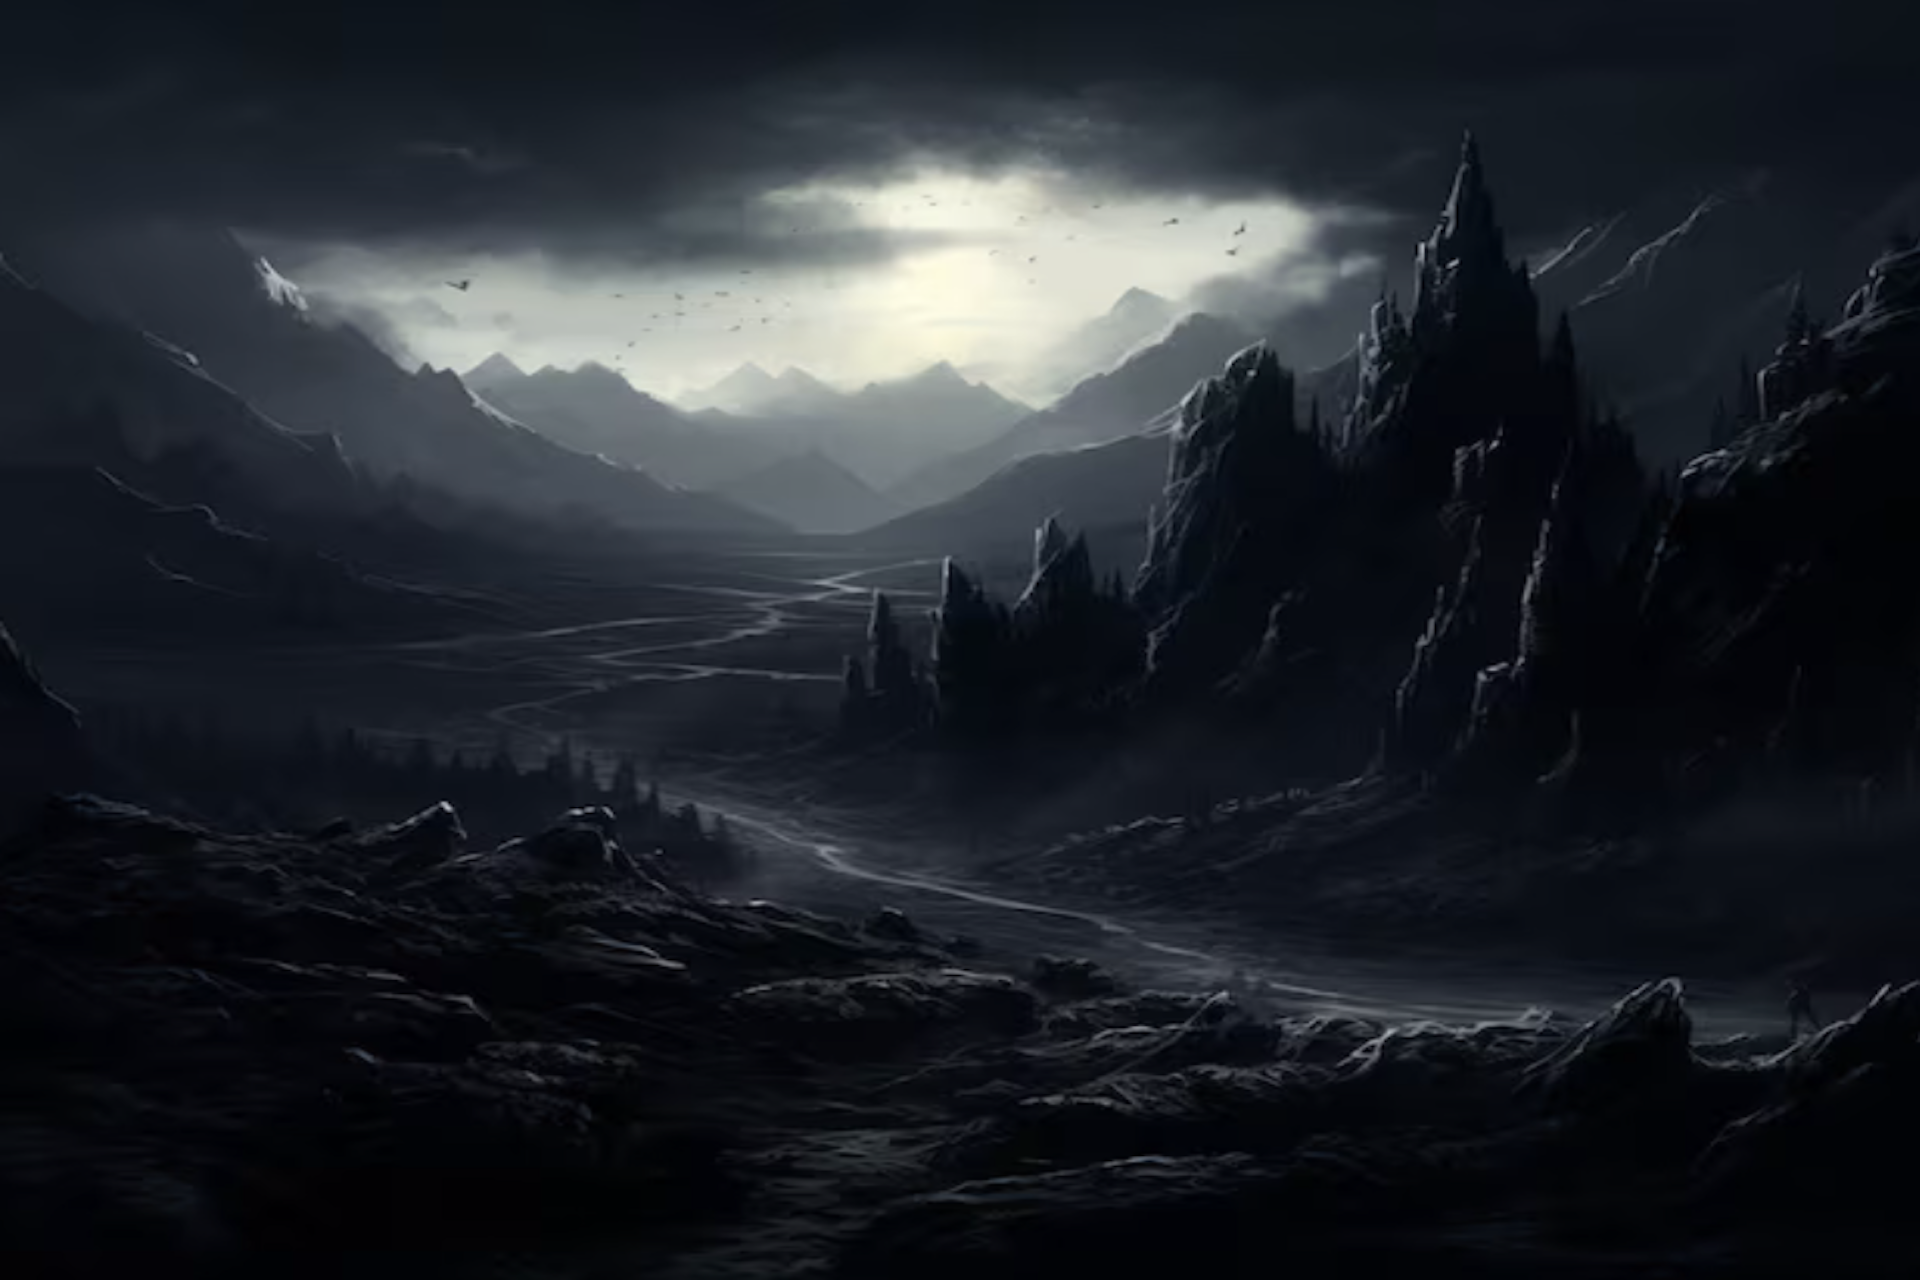
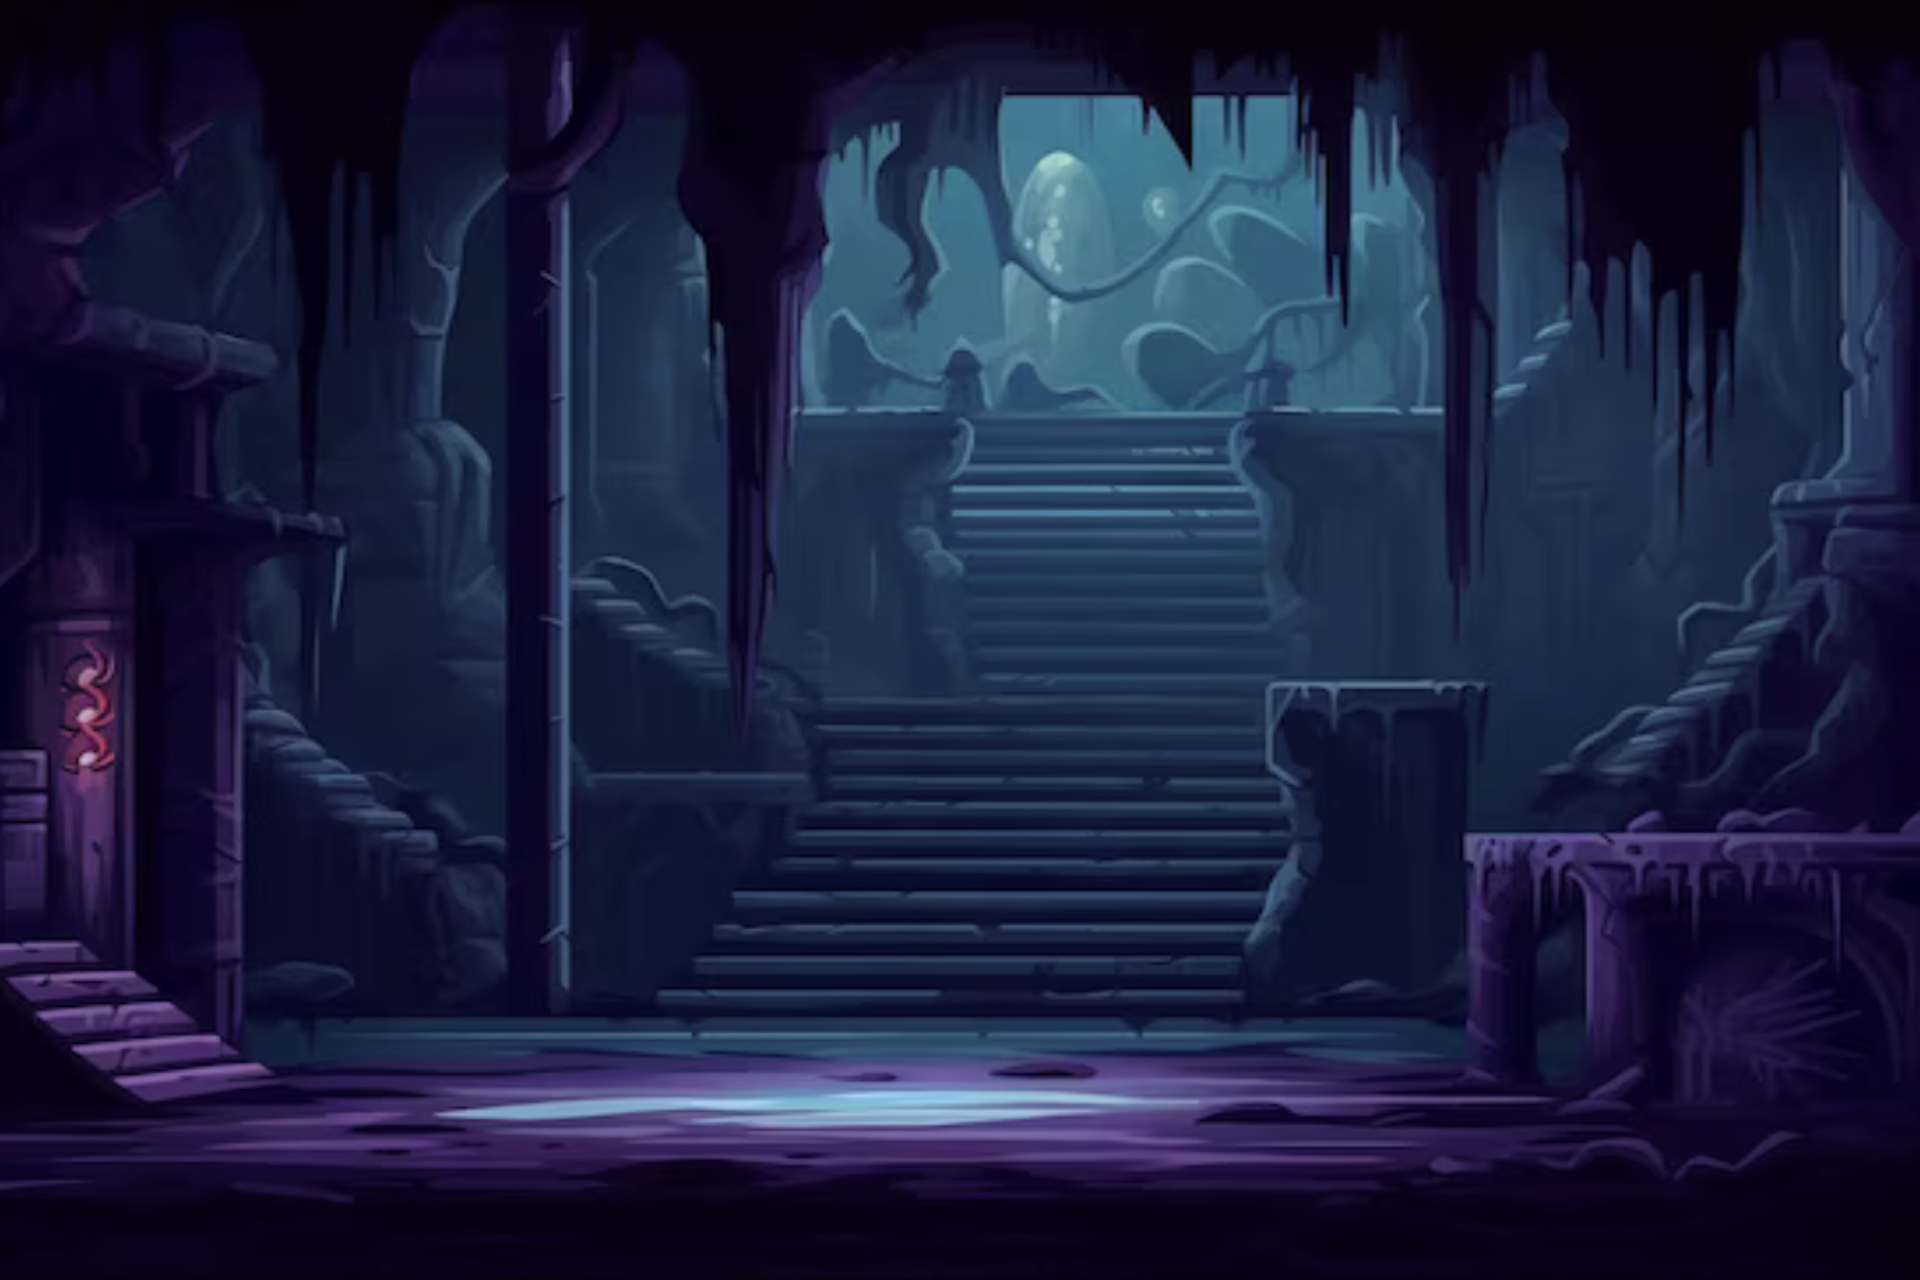
foret

diff --git a/scenes/Niveau6.js b/scenes/Niveau6.js
@@ -442,7 +442,7 @@ export default class niveau6 extends Phaser.Scene {
 
     afficherMessagePotionRouge() {
         const message = this.add
-            .text(this.cameras.main.width * 0.5, 80, "Vous avez récupéré la potion rouge !", {
+            .text(this.cameras.main.width * 0.5, 80, "Vous avez récupéré une potion !", {
                 fontFamily: '"Chiller", "Creepster", "Papyrus", fantasy',
                 fontSize: "36px",
                 color: "#ff6b6b",